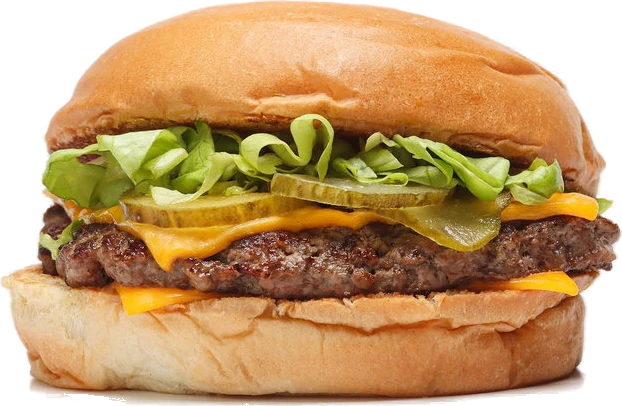
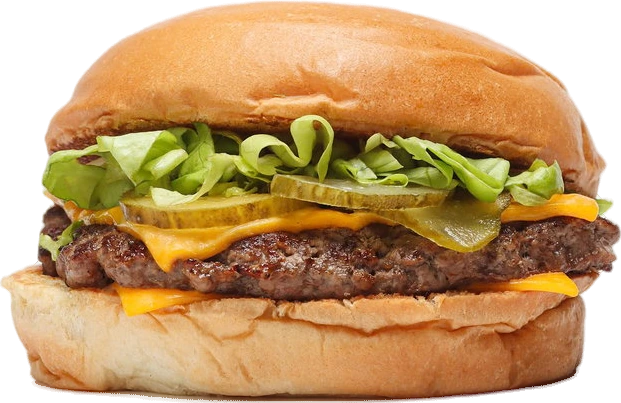
Recortes con modelo de segmentación, capas sin rendijas al montar la hamburguesa
Claude-Session: https://claude.ai/code/session_013U52mpzMbizm2847mJGwGZ

diff --git a/index.html b/index.html
@@ -71,11 +71,11 @@
       </h1>
 
       <div class="burger" data-burger role="img" aria-label="Hamburguesa Crispy 2.0 con doble carne, queso cheddar, bacon y cebolla crocante">
-        <img class="burger__layer" data-layer="0" src="assets/hero/bun-bottom.webp" alt="" style="left:7.76%;top:74.89%;width:92.24%" width="642" height="117">
-        <img class="burger__layer" data-layer="1" src="assets/hero/patty-2.webp" alt="" style="left:0.29%;top:57.30%;width:99.71%" width="694" height="122">
-        <img class="burger__layer" data-layer="2" src="assets/hero/patty-1.webp" alt="" style="left:0;top:41.85%;width:97.41%" width="678" height="111">
-        <img class="burger__layer" data-layer="3" src="assets/hero/greens.webp" alt="" style="left:11.21%;top:22.75%;width:84.91%" width="591" height="113">
-        <img class="burger__layer" data-layer="4" src="assets/hero/bun-top.webp" alt="" style="left:11.21%;top:0;width:82.90%" width="577" height="147">
+        <img class="burger__layer" data-layer="0" src="assets/hero/bun-bottom.webp" alt="" style="left:7.90%;top:75.11%;width:92.10%" width="641" height="113">
+        <img class="burger__layer" data-layer="1" src="assets/hero/patty-2.webp" alt="" style="left:0;top:56.83%;width:100.00%" width="696" height="126">
+        <img class="burger__layer" data-layer="2" src="assets/hero/patty-1.webp" alt="" style="left:0;top:36.34%;width:96.70%" width="673" height="133">
+        <img class="burger__layer" data-layer="3" src="assets/hero/greens.webp" alt="" style="left:11.35%;top:22.25%;width:84.63%" width="589" height="111">
+        <img class="burger__layer" data-layer="4" src="assets/hero/bun-top.webp" alt="" style="left:11.49%;top:0;width:82.76%" width="576" height="145">
       </div>
 
       <div class="stage__meta" data-hero-meta>

diff --git a/css/billy.css b/css/billy.css
@@ -53,7 +53,7 @@
 .footer__big { color: var(--paper); }
 
 /* Hero: la Crispy 2.0 es más ancha que alta, así que el contenedor es apaisado */
-.burger { aspect-ratio: 696 / 466; width: min(64vh, 44vw); top: 64%; }
+.burger { aspect-ratio: 696 / 454; width: min(64vh, 44vw); top: 64%; }
 .sticker--rate { background: var(--cheddar); box-shadow: 4px 5px 0 var(--ketchup); }
 .sticker--rate b { color: var(--ketchup); }
 .stage__meta-c { max-width: 300px; }
